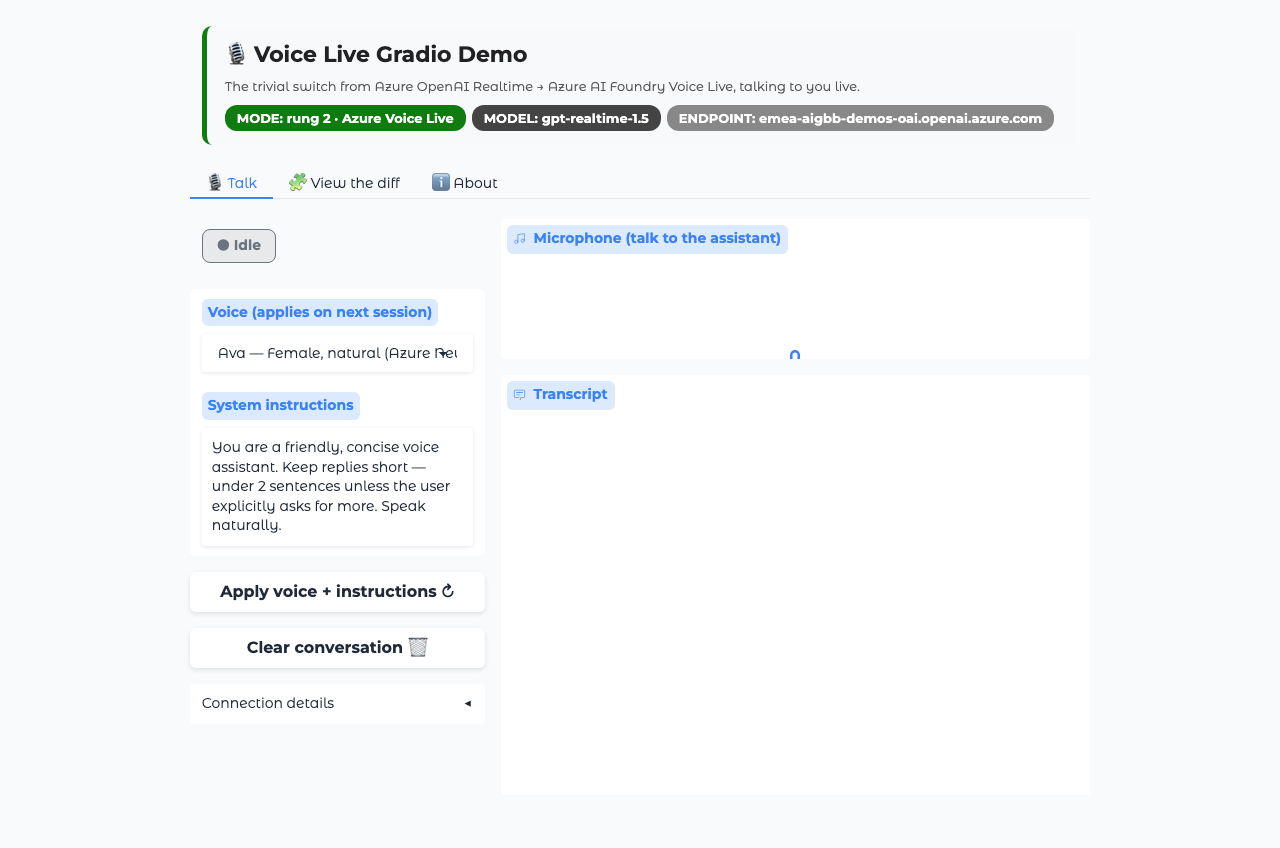
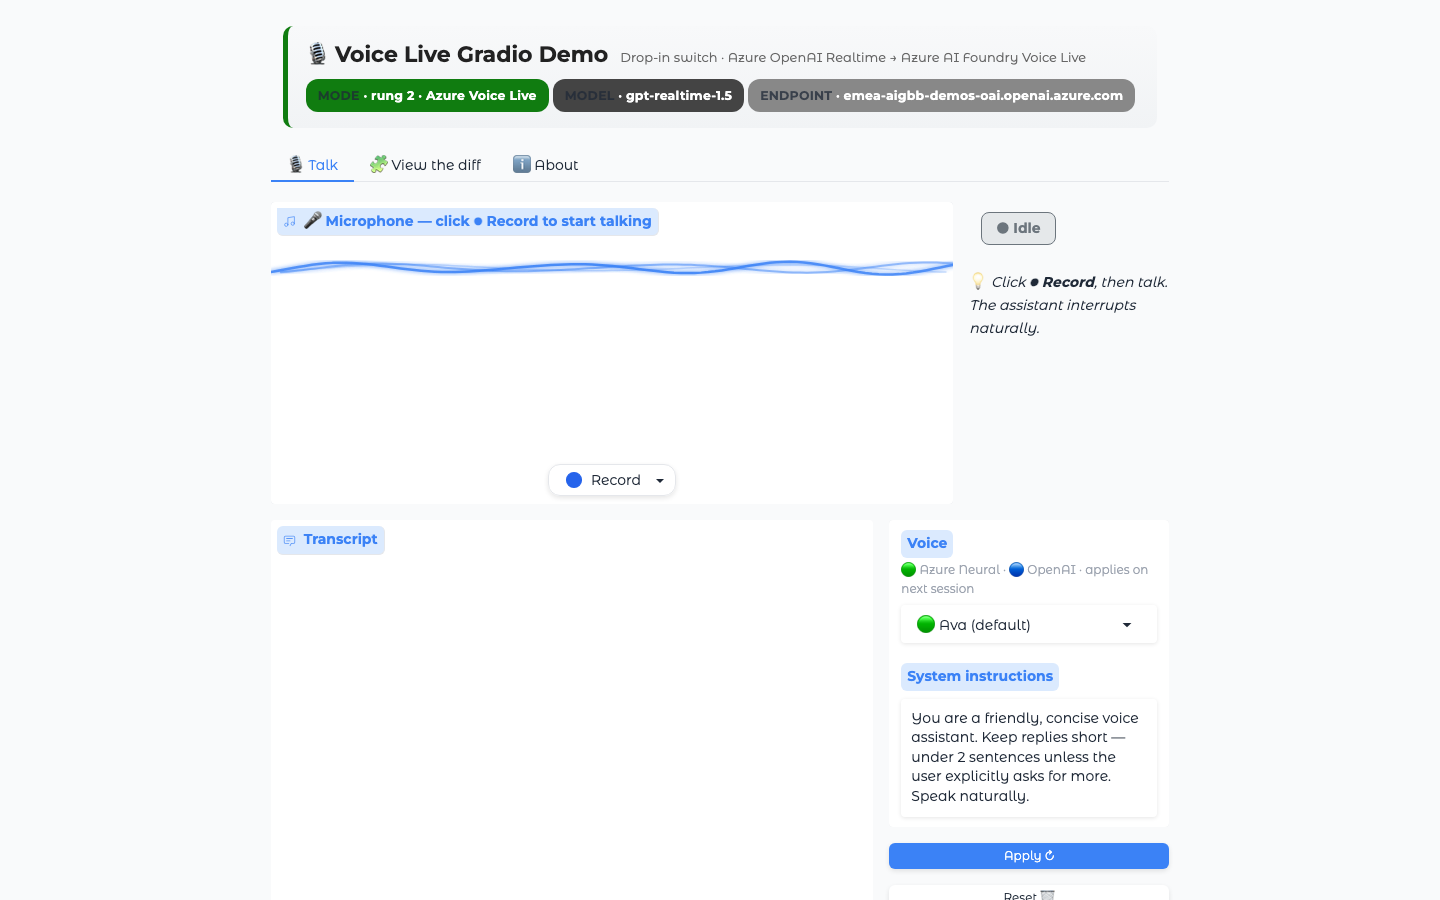
fix(ui): unbreak microphone widget + readability fixes (live-tested)
The microphone widget was completely broken: just a tiny dot in an empty
box. Root cause: `variant="default"` is NOT a valid value for FastRTC's
`WebRTC` component (only `textbox` and `wave` are allowed). The
`wave` default was previously rejected because the widget escapes its
container when `full_screen=True` (the default), painting a page-wide
invisible wave that hid the record button.

Now:
- WebRTC: dropped invalid `variant` kwarg, set `full_screen=False` to
  remove the `.full-screen` class that breaks container layout, wrapped
  in `gr.Group()`. Belt-and-brace CSS that neutralises `.full-screen`
  via `position: relative` if it sneaks back. Widget now shows the
  proper "Click to Access Microphone" CTA → wave visualiser → Record
  button on click — verified live with Playwright + fake mic device.
- Voice picker: labels were getting clipped ("Ava — Azure HD female◆ (◆")
  in the narrow controls column. Shortened to emoji-prefixed names
  ("🟢 Ava (default)", "🔵 Alloy (OpenAI)") and widened column to 280px.
- Layout rebalance: mic widget + status badge in row 1 (4:1 ratio),
  transcript + controls in row 2 (3:1). Apply / Reset on one row.
- Header polish: gradient background, status badge with stronger
  contrast, less wasted vertical space.
- Diff tab: dropped `numlines` 2 → 1 so the page isn't a mile long;
  added table-layout:fixed CSS so code columns have predictable width.
- Refreshed image.png with the live, working widget state.

diff --git a/voicelive_demo/ui.py b/voicelive_demo/ui.py
@@ -30,43 +30,46 @@ STATUS_PALETTE = {
     "error":      ("Error ⚠",      "#dc3545"),
 }
 
+# Short labels — the dropdown column is narrow and long labels get clipped.
 VOICE_OPTIONS = [
-    ("Ava — Female, natural (Azure Neural HD)",          "en-US-Ava:DragonHDLatestNeural"),
-    ("Jenny — Female, conversational (Azure Neural HD)", "en-US-Jenny:DragonHDLatestNeural"),
-    ("Guy — Male, professional (Azure Neural)",          "en-US-GuyNeural"),
-    ("Davis — Male, warm (Azure Neural HD)",             "en-US-Davis:DragonHDLatestNeural"),
-    ("Brian — Male, casual (Azure Neural)",              "en-US-BrianNeural"),
-    ("Alloy — OpenAI versatile",                         "alloy"),
-    ("Nova — OpenAI warm",                               "nova"),
-    ("Shimmer — OpenAI friendly",                        "shimmer"),
+    ("🟢 Ava (default)",  "en-US-Ava:DragonHDLatestNeural"),
+    ("🟢 Jenny",          "en-US-Jenny:DragonHDLatestNeural"),
+    ("🟢 Davis",          "en-US-Davis:DragonHDLatestNeural"),
+    ("🟢 Guy",            "en-US-GuyNeural"),
+    ("🟢 Brian",          "en-US-BrianNeural"),
+    ("🔵 Alloy (OpenAI)", "alloy"),
+    ("🔵 Nova (OpenAI)",  "nova"),
+    ("🔵 Shimmer (OpenAI)", "shimmer"),
 ]
 
 
 def _badge_html(label: str, value: str, color: str = "#0078D4") -> str:
     return (
         f'<span style="display:inline-block;padding:4px 12px;border-radius:12px;'
-        f'background:{color};color:white;font-weight:600;font-size:13px;'
-        f'margin-right:6px;">{label}: {value}</span>'
+        f'background:{color};color:white;font-weight:600;font-size:12.5px;'
+        f'margin:2px 4px 2px 0;letter-spacing:.2px;">'
+        f'<span style="opacity:.75;">{label}</span> · {value}</span>'
     )
 
 
 def _header_html(mode: Mode, model: str, endpoint: str) -> str:
     mode_label, mode_color = MODE_LABELS[mode]
+    short_endpoint = endpoint.replace("wss://", "").replace("https://", "").split("/")[0]
     badges = (
         _badge_html("MODE", mode_label, mode_color)
         + _badge_html("MODEL", model, "#444")
-        + _badge_html("ENDPOINT", endpoint.replace("wss://", "").replace("https://", "").split("/")[0], "#888")
+        + _badge_html("ENDPOINT", short_endpoint, "#888")
     )
     return f"""
-<div style="padding:14px 18px;background:#f8f9fa;border-radius:10px;margin-bottom:8px;
-            border-left:5px solid {mode_color};">
-  <div style="font-size:22px;font-weight:700;color:#222;margin-bottom:6px;">
-    🎙 Voice Live Gradio Demo
+<div style="padding:14px 18px;background:linear-gradient(180deg,#f8f9fa 0%,#f1f3f5 100%);
+            border-radius:10px;margin-bottom:10px;border-left:5px solid {mode_color};">
+  <div style="display:flex;align-items:baseline;gap:12px;flex-wrap:wrap;margin-bottom:6px;">
+    <span style="font-size:22px;font-weight:700;color:#222;">🎙 Voice Live Gradio Demo</span>
+    <span style="font-size:13px;color:#666;">
+      Drop-in switch · Azure OpenAI Realtime → Azure AI Foundry Voice Live
+    </span>
   </div>
-  <div style="font-size:13px;color:#555;margin-bottom:10px;">
-    The trivial switch from Azure OpenAI Realtime → Azure AI Foundry Voice Live, talking to you live.
-  </div>
-  <div>{badges}</div>
+  <div style="line-height:2;">{badges}</div>
 </div>
 """
 
@@ -75,7 +78,7 @@ def _status_html(status: str = "idle") -> str:
     label, color = STATUS_PALETTE.get(status, STATUS_PALETTE["idle"])
     return (
         f'<div style="display:inline-block;padding:6px 14px;border-radius:8px;'
-        f'background:{color}20;color:{color};border:1.5px solid {color};'
+        f'background:{color}22;color:{color};border:1.5px solid {color};'
         f'font-weight:600;font-size:14px;">● {label}</div>'
     )
 
@@ -96,8 +99,31 @@ def _bind_state_outputs(chatbot: list[dict], status_html_value: str, session_inf
     elif event.kind == "session":
         sid = event.payload.get("session_id", "?")
         model = event.payload.get("model", "?")
-        new_session = f"session_id=`{sid}`  ·  model=`{model}`"
+        new_session = f"`session_id`: `{sid}`  ·  `model`: `{model}`"
     return new_chatbot, new_status, new_session
+
+
+CUSTOM_CSS = """
+footer {visibility: hidden;}
+.gradio-container {max-width: 1180px !important; margin: 0 auto !important;}
+
+/* Force the WebRTC audio widget to stay inside its column.
+   FastRTC's `.full-screen` class makes the wave escape the container; we
+   neutralise it with explicit positioning. The `full_screen=False` kwarg
+   removes the class, but we belt-and-brace here in case it sneaks back. */
+.audio-container, .gradio-webrtc-waveContainer, .wave-container {
+    position: relative !important;
+    min-height: 220px;
+}
+
+/* Diff tables: predictable widths, more breathing room */
+.diff_table { width: 100% !important; table-layout: fixed; }
+.diff_table td:nth-child(1), .diff_table td:nth-child(4) { width: 36px; color:#999; }
+.diff_table td:nth-child(2), .diff_table td:nth-child(5) { width: calc(50% - 60px); }
+
+/* Tab bar — bigger, more clickable */
+.tab-nav button { font-size: 15px !important; padding: 10px 16px !important; }
+"""
 
 
 def build_ui(
@@ -118,59 +144,68 @@ def build_ui(
     with gr.Blocks(
         title="Voice Live Gradio Demo",
         theme=gr.themes.Soft(primary_hue="blue", secondary_hue="emerald"),
-        css="""
-        footer {visibility: hidden;}
-        .gradio-container {max-width: 1100px !important; margin: 0 auto !important;}
-        """,
+        css=CUSTOM_CSS,
     ) as demo:
         gr.HTML(_header_html(mode, model, endpoint))
 
         with gr.Tabs():
             with gr.Tab("🎙 Talk"):
-                with gr.Row():
-                    with gr.Column(scale=1, min_width=260):
-                        status_html = gr.HTML(_status_html("idle"), label="Status")
+                # Row 1: mic widget (big) + live status (pinned right)
+                with gr.Row(equal_height=False):
+                    with gr.Column(scale=4):
+                        with gr.Group():
+                            webrtc = WebRTC(
+                                label="🎤 Microphone — click ⏺ Record to start talking",
+                                modality="audio",
+                                mode="send-receive",
+                                rtc_configuration=rtc_configuration,
+                                icon_button_color="#107C10",
+                                pulse_color="#d63384",
+                                full_screen=False,
+                            )
+                    with gr.Column(scale=1, min_width=200):
+                        status_html = gr.HTML(_status_html("idle"))
+                        gr.Markdown(
+                            "💡 _Click **⏺ Record**, then talk. "
+                            "The assistant interrupts naturally._"
+                        )
+
+                # Row 2: transcript (left, wide) + controls (right, compact)
+                with gr.Row(equal_height=False):
+                    with gr.Column(scale=3):
+                        chatbot = gr.Chatbot(
+                            type="messages",
+                            label="Transcript",
+                            height=460,
+                            show_copy_button=True,
+                            avatar_images=(None, "https://learn.microsoft.com/favicon.ico"),
+                        )
+                    with gr.Column(scale=1, min_width=280):
                         voice = gr.Dropdown(
                             choices=VOICE_OPTIONS,
                             value=shared.voice,
-                            label="Voice (applies on next session)",
+                            label="Voice",
+                            info="🟢 Azure Neural · 🔵 OpenAI · applies on next session",
                             interactive=True,
                         )
                         instructions = gr.Textbox(
                             value=shared.instructions,
                             label="System instructions",
-                            lines=4,
+                            lines=5,
+                            max_lines=8,
                             interactive=True,
                         )
-                        apply_btn = gr.Button("Apply voice + instructions ↻", variant="secondary")
-                        reset_btn = gr.Button("Clear conversation 🗑", variant="secondary")
-
+                        with gr.Row():
+                            apply_btn = gr.Button("Apply ↻", variant="primary", size="sm")
+                            reset_btn = gr.Button("Reset 🗑", variant="secondary", size="sm")
                         with gr.Accordion("Connection details", open=False):
-                            session_info = gr.Markdown(value="No session yet.")
+                            session_info = gr.Markdown(value="_No session yet._")
                             gr.Markdown(
-                                f"**Foundry endpoint** · `{endpoint}`\n\n"
-                                f"**Voice Live WSS** · `{voice_live_endpoint}`\n\n"
+                                f"**Foundry endpoint**\n\n`{endpoint}`\n\n"
+                                f"**Voice Live WSS**\n\n`{voice_live_endpoint}`\n\n"
                                 f"**Mode** · `{mode.value}`\n\n"
                                 f"**Auth** · `DefaultAzureCredential` (Entra ID, no API keys)"
                             )
-
-                    with gr.Column(scale=2):
-                        webrtc = WebRTC(
-                            label="Microphone (talk to the assistant)",
-                            modality="audio",
-                            mode="send-receive",
-                            rtc_configuration=rtc_configuration,
-                            variant="default",
-                            height=140,
-                            full_screen=False,
-                        )
-                        chatbot = gr.Chatbot(
-                            type="messages",
-                            label="Transcript",
-                            height=420,
-                            show_copy_button=True,
-                            avatar_images=(None, "https://learn.microsoft.com/favicon.ico"),
-                        )
 
                 webrtc.stream(
                     fn=handler,

diff --git a/voicelive_demo/diff_assets.py b/voicelive_demo/diff_assets.py
@@ -26,11 +26,11 @@ def _html_diff(left: tuple[str, str], right: tuple[str, str]) -> str:
     right_name, right_label = right
     left_lines = _read(REPO_ROOT / left_name)
     right_lines = _read(REPO_ROOT / right_name)
-    differ = difflib.HtmlDiff(wrapcolumn=80, tabsize=4)
+    differ = difflib.HtmlDiff(wrapcolumn=72, tabsize=4)
     table = differ.make_table(
         left_lines, right_lines,
         fromdesc=left_label, todesc=right_label,
-        context=True, numlines=2,
+        context=True, numlines=1,
     )
     # difflib's default HTML uses inline class names that look terrible without their stylesheet;
     # inject a compact stylesheet so the diff is readable in Gradio.
